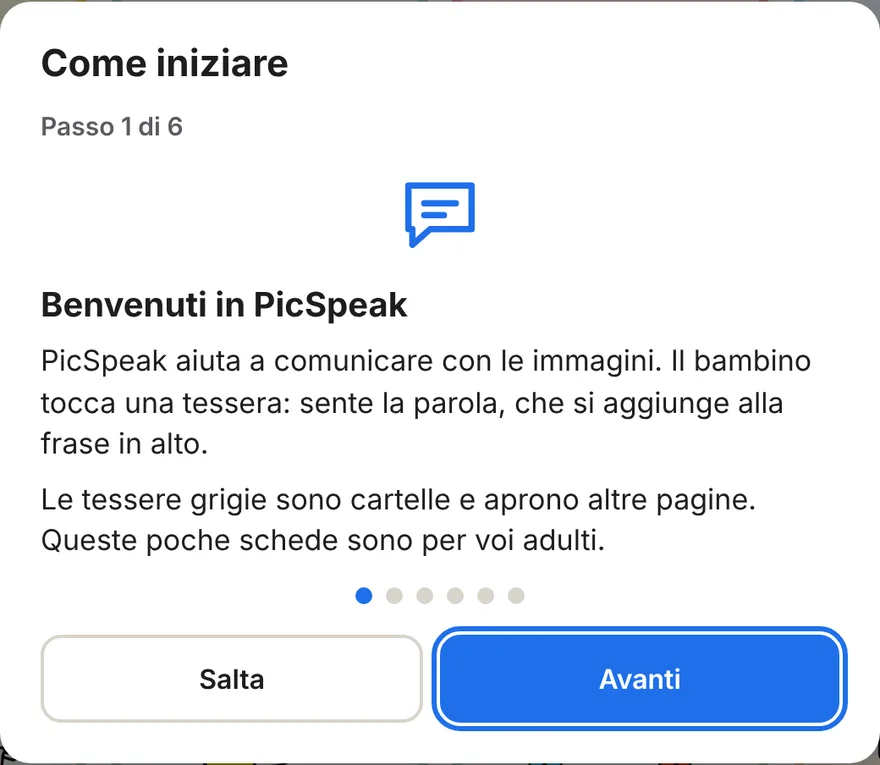
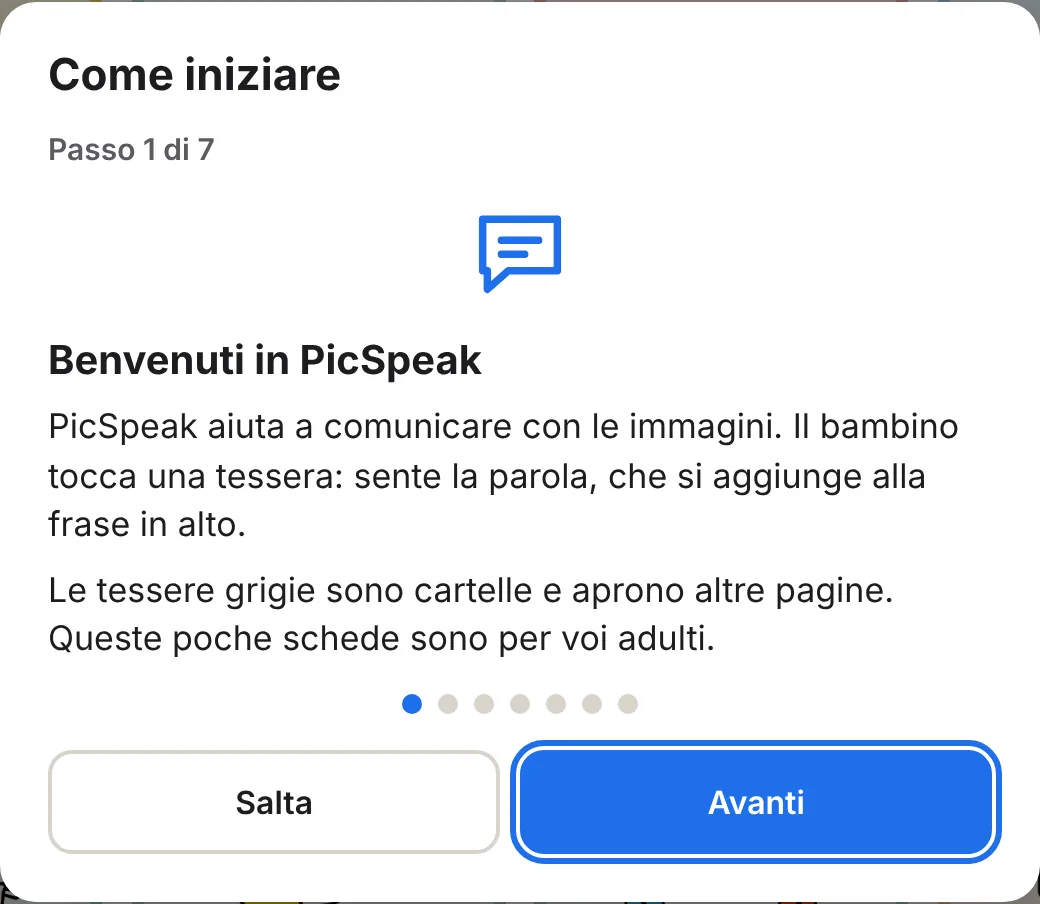
anteprima: sviluppo @ bc36e95

Changed region(s): [[0.3682, 0.7516, 0.6136, 0.8118], [0.1841, 0.1503, 0.2148, 0.1804]]

diff --git a/guida.html b/guida.html
@@ -221,8 +221,10 @@
 
     <section id="come-iniziare" data-search>
       <h3>Rivedere «Come iniziare»</h3>
-      <p>La prima volta che si apre PicSpeak su un dispositivo compare <strong>Come iniziare</strong>: sei schede brevi
-        per l’adulto che lo prepara (frase, menu e PIN, profilo, schede e tessere, impostazioni, backup). Compare da sola
+      <p>La prima volta che si apre PicSpeak su un dispositivo compare <strong>Come iniziare</strong>: sette schede brevi
+        per l’adulto che lo prepara (frase, installare come app, menu e PIN, profilo, schede e tessere, impostazioni,
+        backup). La scheda per installare mostra le istruzioni del dispositivo in uso (vedi
+        <a href="#installare">Installare come app</a>) e non compare se PicSpeak è già aperto come app. Compare da sola
         solo finché non è stato creato il PIN, quindi non la vede il bambino.</p>
       <ol class="steps">
         <li>Toccate <strong>Avanti</strong> per passare alla scheda successiva, <strong>Indietro</strong> per tornare
@@ -232,7 +234,7 @@
           PIN.</li>
       </ol>
       <figure class="shot shot-dialog">
-        <img src="guida/come-iniziare.webp" width="880" height="765" alt="La finestra «Come iniziare» al passo 1 di 6, con i pulsanti Salta e Avanti." loading="lazy">
+        <img src="guida/come-iniziare.webp" width="1040" height="904" alt="La finestra «Come iniziare» al passo 1 di 7, con i pulsanti Salta e Avanti." loading="lazy">
       </figure>
       <p>Per rivederla: menu dei tre puntini → <strong>Come iniziare</strong>, oppure
         <span class="where"><span>Impostazioni</span><span>Generale</span><span>Guida all’uso</span><span>Come iniziare</span></span>.
@@ -1125,12 +1127,47 @@
     <section id="installare" data-search>
       <h3>Installare come app e usarla senza internet</h3>
       <p class="where-line"><span class="where"><span>Impostazioni</span><span>Generale</span><span>Installa PicSpeak come app</span></span></p>
+      <p>Installato come app, PicSpeak ha la sua icona nella schermata Home (o sulla scrivania), si apre a schermo intero
+        senza le barre del browser e funziona anche senza connessione. Non si scarica nulla da un negozio di app: è gratis
+        e non serve un account. In quella voce delle impostazioni, e nella scheda «Come iniziare», PicSpeak mostra già le
+        istruzioni del vostro dispositivo; qui ci sono tutte.</p>
+      <p class="tip"><strong>Installatelo subito, prima di preparare le schede.</strong> Su iPad e iPhone l’app aggiunta
+        alla schermata Home ha dati suoi, separati da quelli di Safari: le schede preparate in Safari non si vedono
+        nell’app. Se le avete già preparate, fate un <a href="#backup">backup su file</a> in Safari e ripristinatelo
+        nell’app installata. Su Android e sul computer, invece, app e browser usano gli stessi dati.</p>
+      <figure class="shot shot-dialog">
+        <img src="guida/installa-app.webp" width="1040" height="1404" alt="La scheda «Installare PicSpeak come app» di Come iniziare, al passo 2 di 7, con le istruzioni per iPad: pulsante Condividi, Aggiungi alla schermata Home, Aggiungi." loading="lazy">
+      </figure>
+      <h4>iPad e iPhone (Safari)</h4>
       <ol class="steps">
-        <li>Seguite le istruzioni mostrate per il vostro dispositivo. Se il pulsante non compare, aprite il menu del
-          browser (⋮ o …) e scegliete «Installa PicSpeak», «Aggiungi alla schermata Home» oppure «Salva e condividi →
-          Installa pagina come app».</li>
-        <li>L’icona compare nella schermata Home: PicSpeak si apre a schermo intero e funziona anche senza connessione.</li>
+        <li>Aprite PicSpeak in <strong>Safari</strong>.</li>
+        <li>Toccate il pulsante <strong>Condividi</strong> (il quadrato con la freccia verso l’alto). Se non lo vedete,
+          toccate prima <strong>…</strong> accanto all’indirizzo.</li>
+        <li>Scorrete e scegliete <strong>Aggiungi alla schermata Home</strong>, poi toccate <strong>Aggiungi</strong>.</li>
+        <li>Da quel momento aprite PicSpeak sempre dall’icona nella schermata Home.</li>
       </ol>
+      <h4>Android (Chrome)</h4>
+      <ol class="steps">
+        <li>Aprite PicSpeak in <strong>Chrome</strong>.</li>
+        <li>Toccate <strong>Installa PicSpeak</strong> in Impostazioni › Generale, se c’è, oppure il menu <strong>⋮</strong>
+          in alto a destra e scegliete <strong>Installa app</strong> (o <strong>Aggiungi a schermata Home</strong>).</li>
+        <li>Confermate con <strong>Installa</strong>: l’icona compare tra le app e nella schermata Home.</li>
+      </ol>
+      <h4>Computer Windows o Mac (Chrome o Edge)</h4>
+      <ol class="steps">
+        <li>Premete <strong>Installa PicSpeak</strong> in Impostazioni › Generale, se c’è, oppure l’icona di installazione
+          a destra nella barra degli indirizzi.</li>
+        <li>Se non la vedete, aprite il menu del browser (⋮ o …) e scegliete «Installa PicSpeak», oppure «Salva e
+          condividi → Installa pagina come app» o «App → Installa questo sito come app».</li>
+        <li>PicSpeak si apre nella sua finestra e compare tra i programmi (menu Start, Launchpad o Dock).</li>
+      </ol>
+      <h4>Mac (Safari)</h4>
+      <ol class="steps">
+        <li>Nel menu <strong>File</strong> di Safari scegliete <strong>Aggiungi al Dock</strong>, poi <strong>Aggiungi</strong>.</li>
+      </ol>
+      <p class="tip">Firefox non permette di installare le app web: aprite l’indirizzo di PicSpeak con Chrome, Edge o
+        Safari, oppure aggiungetelo ai preferiti. Per togliere l’app si fa come per qualsiasi altra app del dispositivo;
+        prima fate un backup, perché i dati dell’app possono andare persi insieme all’icona.</p>
       <p>Installato come app, PicSpeak ottiene più facilmente dal browser la
         <a href="#conservazione">conservazione dei dati</a>.</p>
       <h4>Internet e consumo dati</h4>

diff --git a/js/tutorial.js b/js/tutorial.js
@@ -8,7 +8,7 @@
 (function () {
   'use strict';
 
-  const { i18n, storage, security } = window.PicSpeak;
+  const { i18n, storage, security, install } = window.PicSpeak;
   const t = i18n.t;
 
   // Chiave del dispositivo (non del profilo, non nel backup): 1 = tutorial già visto, saltato o finito
@@ -23,12 +23,47 @@
     profile: '<circle cx="12" cy="8" r="4"/><path d="M4 21a8 8 0 0 1 16 0"/>',
     boards: '<rect x="3.5" y="3.5" width="7" height="7" rx="1.5"/><rect x="13.5" y="3.5" width="7" height="7" rx="1.5"/><rect x="3.5" y="13.5" width="7" height="7" rx="1.5"/><path d="m14 20 1-3 4.5-4.5 2 2L17 19z"/>',
     settings: '<path d="M4 6h10M18 6h2M4 12h4M12 12h8M4 18h12M20 18h0"/><circle cx="16" cy="6" r="2"/><circle cx="10" cy="12" r="2"/><circle cx="18" cy="18" r="2"/>',
+    install: '<rect x="6.5" y="2.5" width="11" height="19" rx="2"/><path d="M12 7.5v6.5"/><path d="m9 11 3 3 3-3"/><path d="M10.5 18.5h3"/>',
     backup: '<path d="M12 3v11"/><path d="m7.5 9.5 4.5 4.5 4.5-4.5"/><path d="M4 16v4h16v-4"/>',
   };
 
+  // Il passo «Installare come app» si toglie se PicSpeak è già aperto come app
   function steps() {
     const list = t('tutorialSteps');
-    return Array.isArray(list) ? list : [];
+    if (!Array.isArray(list)) return [];
+    const installed = Boolean(install && install.isStandalone());
+    return installed ? list.filter((step) => step.id !== 'install') : list;
+  }
+
+  // Passo «Installare come app»: righe del passo, poi le istruzioni del dispositivo in uso
+  // (o il pulsante del browser, se c'è), come in Impostazioni › Generale
+  function installBlock(rerender) {
+    const nodes = [];
+    if (!install) return nodes;
+    if (!location.protocol.startsWith('http')) {
+      nodes.push(el('p', 'tutorial-text', t('installFromFile')));
+      return nodes;
+    }
+    // Solo su iPad e iPhone l'app installata non vede i dati di Safari: lo si dice prima dei passi
+    if (install.platform() === 'ios') nodes.push(el('p', 'tutorial-text', t('tutorialInstallIos')));
+    if (install.canPrompt()) {
+      const btn = stepButton(t('installButton'), async () => {
+        await install.prompt().catch(() => false);
+        rerender();
+      }, true);
+      btn.classList.add('tutorial-install-btn');
+      nodes.push(btn);
+    }
+    if (install.showSteps()) {
+      const lines = t(install.stepsKey());
+      if (Array.isArray(lines) && lines.length) {
+        const ol = el('ol', 'tutorial-steps');
+        ol.append(...lines.map((line) => el('li', '', line)));
+        nodes.push(ol);
+      }
+    }
+    nodes.push(el('p', 'tutorial-again', t('tutorialInstallLater')));
+    return nodes;
   }
 
   async function markSeen() {
@@ -57,6 +92,8 @@
   }
 
   let running = false;
+  // Ascolto del pulsante «Installa» del browser, tolto quando la finestra si chiude
+  let stopListening = null;
 
   // Si apre solo se nessun'altra finestra è aperta (menu, PIN…): non ne prende mai il posto
   function busy() {
@@ -83,6 +120,8 @@
     } catch (error) {
       // Un errore dell'archivio non deve bloccare il tutorial né la comunicazione
     } finally {
+      if (stopListening) stopListening();
+      stopListening = null;
       running = false;
     }
     if (result === 'pin' && adult.requestAccess) adult.requestAccess();
@@ -115,6 +154,7 @@
           icon.innerHTML = `<svg width="56" height="56" viewBox="0 0 24 24" fill="none" stroke="currentColor" stroke-width="1.6" stroke-linecap="round" stroke-linejoin="round">${ICONS[step.id] || ICONS.sentence}</svg>`;
           heading.textContent = step.title;
           body.replaceChildren(...step.text.map((line) => el('p', 'tutorial-text', line)));
+          if (step.id === 'install') body.append(...installBlock(show));
           if (last) body.append(el('p', 'tutorial-again', t('tutorialAgain')));
           dots.replaceChildren(...list.map((_, i) => el('span', i === index ? 'tutorial-dot is-current' : 'tutorial-dot')));
 
@@ -138,6 +178,8 @@
           // Il fuoco resta sul pulsante principale (tastiera e lettori di schermo)
           if (box.isConnected) main.focus();
         }
+        // Chrome/Edge annunciano il pulsante «Installa» anche dopo l'apertura: si ridisegna il passo
+        if (install) stopListening = install.onChange(() => { if (box.isConnected && list[index].id === 'install') show(); });
         show();
         return box;
       },
@@ -155,7 +197,7 @@
     }
   }
 
-  window.PicSpeak.tutorial = { open, shouldAutoStart, markSeen, SEEN_KEY };
+  window.PicSpeak.tutorial = { open, steps, shouldAutoStart, markSeen, SEEN_KEY };
 
   const app = window.PicSpeak.app;
   if (app && app.ready && window.PicSpeak.settingsUi) {

diff --git a/js/i18n.js b/js/i18n.js
@@ -88,6 +88,9 @@
         { id: 'sentence', title: 'Benvenuti in PicSpeak',
           text: ['PicSpeak aiuta a comunicare con le immagini. Il bambino tocca una tessera: sente la parola, che si aggiunge alla frase in alto.',
             'Le tessere grigie sono cartelle e aprono altre pagine. Queste poche schede sono per voi adulti.'] },
+        { id: 'install', title: 'Installare PicSpeak come app',
+          text: ['Con l’icona nella schermata Home PicSpeak si apre a schermo intero, come un’app, e funziona anche senza internet.',
+            'Conviene farlo subito, prima di preparare le schede.'] },
         { id: 'pin', title: 'Il menu e il PIN',
           text: ['Tenete premuti per 3 secondi i tre puntini in alto a destra: si apre il menu. Un tocco veloce non fa nulla.',
             'Scegliete Impostazioni: la prima volta create un PIN di 4-6 cifre e annotate il codice di recupero, che serve se dimenticate il PIN.'] },
@@ -111,6 +114,8 @@
       tutorialNext: 'Avanti',
       tutorialDone: 'Fine',
       tutorialCreatePin: 'Crea il PIN ora',
+      tutorialInstallIos: 'Su iPad e iPhone l’app installata ha dati suoi, separati da quelli di Safari: le schede preparate in Safari non si vedono nell’app.',
+      tutorialInstallLater: 'Le istruzioni restano in Impostazioni › Generale › Installa PicSpeak come app.',
       tutorialAgain: 'Potete rivedere questi passi dal menu dei tre puntini › Come iniziare.',
       secGuideTitle: 'Guida all’uso',
       secGuideHelp: 'Spiegazioni per genitori, insegnanti e terapisti. Si apre anche dal menu dei tre puntini, senza PIN.',
@@ -630,7 +635,7 @@
       installDone: 'PicSpeak è già aperto come app su questo dispositivo.',
       installFromFile: 'Per installarlo apri PicSpeak dal suo indirizzo web: https://mcdepltestenv.github.io/picspeak/',
       installIos: [
-        'Apri questa pagina in Safari e tocca il pulsante Condividi (il quadrato con la freccia verso l’alto).',
+        'Apri questa pagina in Safari e tocca il pulsante Condividi (il quadrato con la freccia verso l’alto). Se non lo vedi, tocca prima … accanto all’indirizzo.',
         'Scorri e scegli «Aggiungi alla schermata Home».',
         'Tocca «Aggiungi».',
       ],
@@ -1187,6 +1192,9 @@
         { id: 'sentence', title: 'Welcome to PicSpeak',
           text: ['PicSpeak helps people communicate with pictures. The child taps a tile: they hear the word, which is added to the sentence at the top.',
             'Grey tiles are folders and open other pages. These few cards are for you, the adults.'] },
+        { id: 'install', title: 'Install PicSpeak as an app',
+          text: ['With its icon on the Home Screen PicSpeak opens full screen, like an app, and also works without internet.',
+            'Best do it now, before preparing the boards.'] },
         { id: 'pin', title: 'The menu and the PIN',
           text: ['Press and hold the three dots at the top right for 3 seconds: the menu opens. A quick tap does nothing.',
             'Choose Settings: the first time you create a 4-6 digit PIN and write down the recovery code, which you need if you forget the PIN.'] },
@@ -1210,6 +1218,8 @@
       tutorialNext: 'Next',
       tutorialDone: 'Done',
       tutorialCreatePin: 'Create the PIN now',
+      tutorialInstallIos: 'On iPad and iPhone the installed app has its own data, separate from Safari: boards prepared in Safari don’t show up in the app.',
+      tutorialInstallLater: 'The instructions stay in Settings › General › Install PicSpeak as an app.',
       tutorialAgain: 'You can see these steps again from the three-dot menu › Getting started.',
       secGuideTitle: 'User guide',
       secGuideHelp: 'Explanations for parents, teachers and therapists (currently in Italian). It also opens from the three-dot menu, without PIN.',
@@ -1728,7 +1738,7 @@
       installDone: 'PicSpeak is already open as an app on this device.',
       installFromFile: 'To install it, open PicSpeak from its web address: https://mcdepltestenv.github.io/picspeak/',
       installIos: [
-        'Open this page in Safari and tap the Share button (the square with the up arrow).',
+        'Open this page in Safari and tap the Share button (the square with the up arrow). If you can’t see it, first tap … next to the address.',
         'Scroll down and choose “Add to Home Screen”.',
         'Tap “Add”.',
       ],

diff --git a/js/install.js b/js/install.js
@@ -44,6 +44,22 @@
     return 'chromium';
   }
 
+  // Chiave i18n con i passi manuali per il dispositivo in uso (impostazioni e tutorial «Come iniziare»)
+  function stepsKey() {
+    return {
+      ios: 'installIos',
+      android: 'installAndroid',
+      'mac-safari': 'installMacSafari',
+      firefox: 'installFirefox',
+      chromium: 'installChromium',
+    }[platform()];
+  }
+
+  // I passi manuali servono quando manca il pulsante del browser; su Chrome/Edge del PC restano come aiuto
+  function showSteps() {
+    return !deferredPrompt || platform() === 'chromium';
+  }
+
   async function prompt() {
     if (!deferredPrompt) return false;
     deferredPrompt.prompt();
@@ -66,8 +82,11 @@
   window.PicSpeak.install = {
     isStandalone,
     platform,
+    stepsKey,
+    showSteps,
     prompt,
     canPrompt: () => Boolean(deferredPrompt),
-    onChange: (fn) => listeners.add(fn),
+    // Restituisce la funzione che toglie l'ascolto
+    onChange: (fn) => { listeners.add(fn); return () => listeners.delete(fn); },
   };
 })();

diff --git a/css/style.css b/css/style.css
@@ -455,6 +455,8 @@ a.link-btn { display: inline-flex; align-items: center; justify-content: center;
 .tutorial-body { display: flex; flex-direction: column; gap: 8px; min-height: 7.5em; }
 .tutorial-text { margin: 0; line-height: 1.45; font-size: 17px; }
 .tutorial-again { margin: 0; color: var(--text-muted); line-height: 1.4; font-size: 15px; }
+.tutorial-steps { margin: 0; padding-left: 1.4em; display: flex; flex-direction: column; gap: 6px; line-height: 1.45; font-size: 17px; }
+.tutorial-install-btn { align-self: flex-start; min-height: 64px; }
 .tutorial-dots { display: flex; justify-content: center; gap: 8px; padding: 4px 0; }
 .tutorial-dot { width: 10px; height: 10px; border-radius: 50%; background: var(--border); }
 .tutorial-dot.is-current { background: var(--focus); }

diff --git a/sw.js b/sw.js
@@ -3,7 +3,7 @@
  * Strategia "prima la rete": online si riceve sempre l'ultima versione,
  * offline si usa la copia salvata. Cambiare CACHE_VERSION quando si aggiungono file.
  */
-const CACHE_VERSION = 'picspeak-anteprima-v85';
+const CACHE_VERSION = 'picspeak-anteprima-v86';
 // I pacchetti di simboli scaricati dall'adulto (Mulberry, OpenMoji) e gli indici delle fonti online (Twemoji)
 // stanno in cache separate ("picspeak-pack-…"), mai cancellate dagli aggiornamenti
 
@@ -24,6 +24,7 @@ const APP_FILES = [
   'guida/barra-adulto.webp',
   'guida/cerca-simbolo.webp',
   'guida/come-iniziare.webp',
+  'guida/installa-app.webp',
   'guida/colori-parole.webp',
   'guida/contesti.webp',
   'guida/disposizione.webp',

diff --git a/js/adult.js b/js/adult.js
@@ -612,15 +612,8 @@
         renderSettings();
       }, true));
     }
-    const steps = {
-      ios: 'installIos',
-      android: 'installAndroid',
-      'mac-safari': 'installMacSafari',
-      firefox: 'installFirefox',
-      chromium: 'installChromium',
-    }[install.platform()];
-    if (!install.canPrompt() || install.platform() === 'chromium') {
-      wrap.append(list(t(steps), true));
+    if (install.showSteps()) {
+      wrap.append(list(t(install.stepsKey()), true));
     }
   }
 
